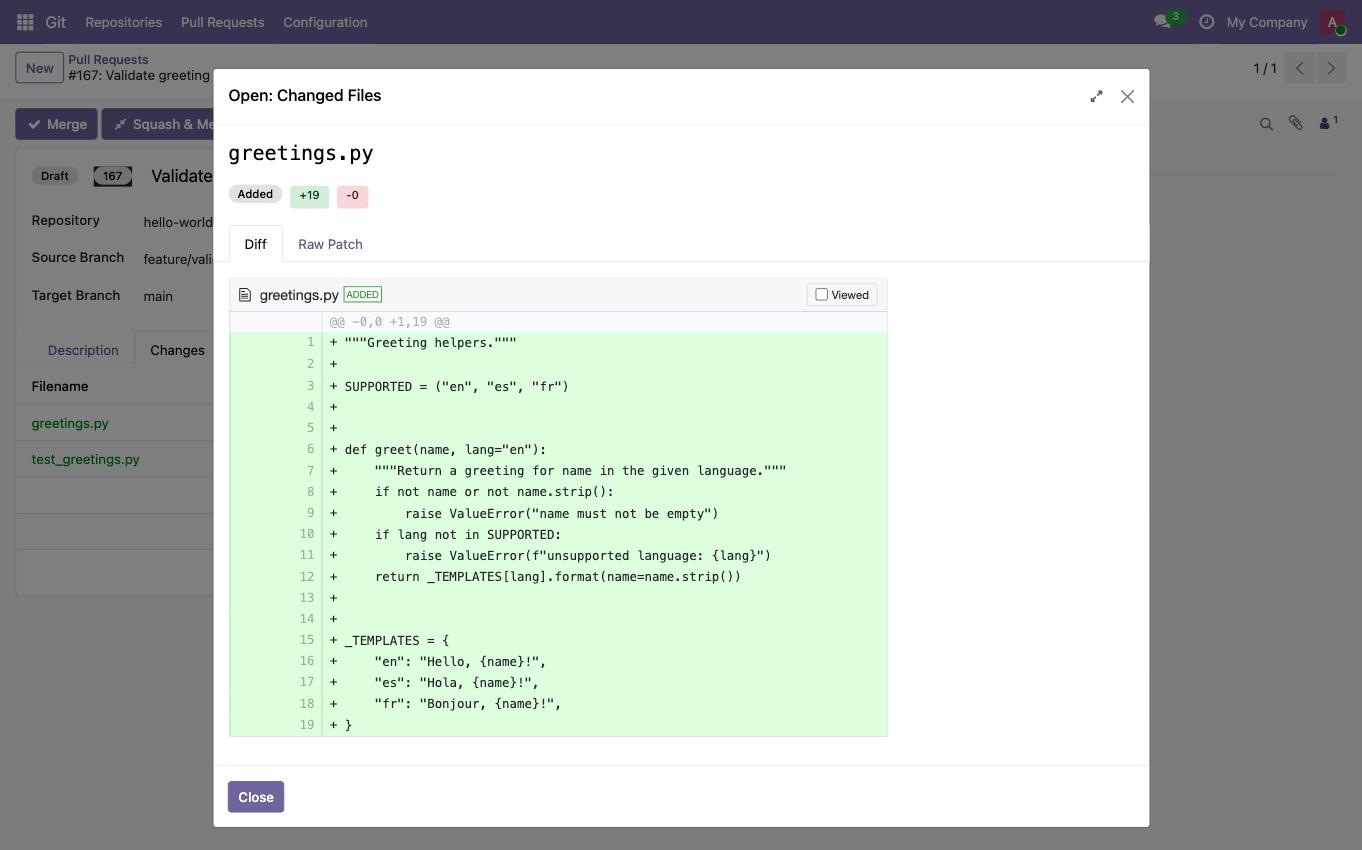
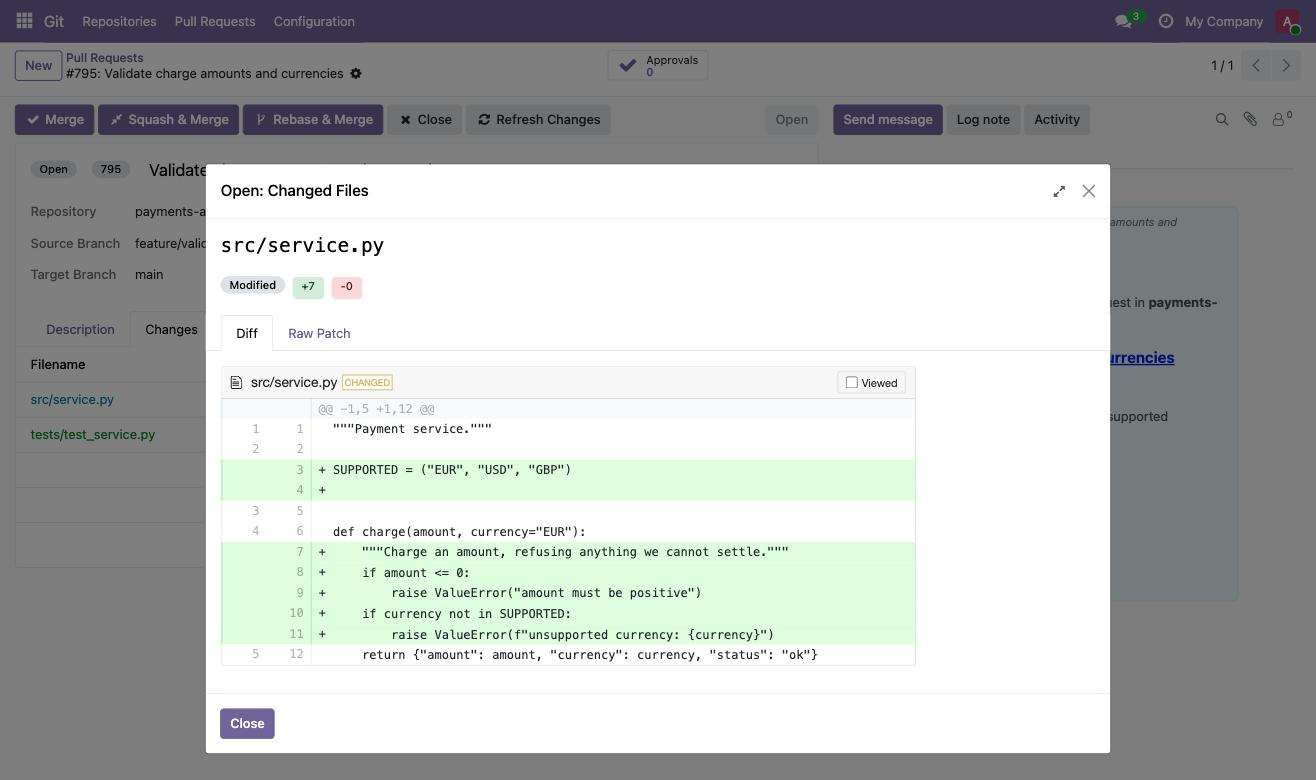
fix(webhook): the test button did nothing and reported success
"Test Delivery" called _process_event('ping', ...). That method drops any
event the webhook is not subscribed to, and 'ping' is in no subscription
list, so it returned at the event filter having done nothing at all — no
request, no delivery record, nothing — and then showed "Test webhook
sent!".

Two separate untruths: this module has no HTTP client anywhere in
webhook.py, so it cannot send; and it was not even recording the payload
it claimed to have sent.

Payload building is now split into _record_delivery(), which the test
button calls directly so it is not filtered by subscriptions, and the
notification says what actually happened: a signed payload stored under
Deliveries for inspection, nothing transmitted. The button is relabelled
"Build Test Payload".

Found by the audit. Caught in the act by the new test, which failed on my
own first fix — I had corrected the "sent" claim while still asserting
the payload was recorded, and it was not.

Also adds ahead/behind tests against a genuinely diverged branch. That
compute swallows every exception and falls back to 0/0, so "up to date"
and "the computation broke" render identically, and nothing asserted a
non-zero count.

Manifest no longer points readers at README.md and docs/, neither of
which ships inside the module — an Apps Store installer got a pointer to
files they do not have.

diff --git a/dw_git/tests/test_integration_git.py b/dw_git/tests/test_integration_git.py
@@ -1,6 +1,7 @@
 """INTEGRATION tests — real git binary + HTTP layer against live Odoo."""
 import os
 import shutil
+import subprocess
 import tempfile
 from unittest.mock import patch
 
@@ -264,3 +265,122 @@ class TestNotificationPipeline(DwGitCommon):
         template = self.env.ref('dw_git.mail_template_git_pr_merged')
         with self.assertRaises(ValidationError):
             template.write({'email_from': '{{ object.no_such_field_xyz }}'})
+
+
+@tagged('post_install', '-at_install')
+class TestAheadBehindAgainstRealHistory(DwGitCommon):
+    """Ahead/behind counters, computed from an actual diverged branch.
+
+    These are rendered as badges in three views, and the compute swallows
+    every exception and falls back to 0/0. That makes "up to date" and
+    "the computation broke" the same answer on screen. No test asserted a
+    non-zero count, so the whole feature could have been dead and nothing
+    would have said so.
+    """
+
+    def setUp(self):
+        super().setUp()
+        self.base = tempfile.mkdtemp(prefix='dw-git-ahead-')
+        self.addCleanup(shutil.rmtree, self.base, True)
+        self.env['ir.config_parameter'].sudo().set_param(
+            'dw_git.repo_base_path', self.base)
+
+        self.repo = self._repo('ahead-behind')
+        self.repo._init_git_repo()
+        self.work = tempfile.mkdtemp(prefix='dw-git-ahead-work-')
+        self.addCleanup(shutil.rmtree, self.work, True)
+        subprocess.run(['git', 'clone', '-q', self.repo._get_repo_path(),
+                        self.work], check=True, capture_output=True)
+        self._git('symbolic-ref', 'HEAD', 'refs/heads/main')
+
+    def _git(self, *args):
+        return subprocess.run(['git', '-C', self.work] + list(args),
+                              check=True, capture_output=True, text=True).stdout
+
+    def _commit(self, message, name, body):
+        with open(os.path.join(self.work, name), 'w') as fh:
+            fh.write(body)
+        self._git('add', '-A')
+        self._git('-c', 'user.email=t@t.com', '-c', 'user.name=T',
+                  'commit', '-qm', message)
+        return self._git('rev-parse', 'HEAD').strip()
+
+    def test_a_diverged_branch_reports_a_non_zero_ahead_count(self):
+        main_sha = self._commit('base', 'a.txt', 'one\n')
+        self._git('push', '-q', 'origin', 'HEAD:refs/heads/main')
+
+        self._git('checkout', '-q', '-b', 'feature/ahead')
+        self._commit('first', 'b.txt', 'two\n')
+        feat_sha = self._commit('second', 'c.txt', 'three\n')
+        self._git('push', '-q', 'origin', 'HEAD:refs/heads/feature/ahead')
+
+        main = self._branch(self.repo, 'main', sha=main_sha)
+        main.write({'is_default': True})
+        feature = self._branch(self.repo, 'feature/ahead', sha=feat_sha)
+
+        feature.invalidate_recordset()
+        self.assertEqual(
+            feature.ahead_commits, 2,
+            'a branch two commits ahead of default reported '
+            f'{feature.ahead_commits} — 0 here would be indistinguishable '
+            'from the compute silently failing')
+        self.assertEqual(feature.behind_commits, 0)
+
+    def test_the_default_branch_is_level_with_itself(self):
+        sha = self._commit('base', 'a.txt', 'one\n')
+        self._git('push', '-q', 'origin', 'HEAD:refs/heads/main')
+        main = self._branch(self.repo, 'main', sha=sha)
+        main.write({'is_default': True})
+        main.invalidate_recordset()
+        self.assertEqual((main.ahead_commits, main.behind_commits), (0, 0))
+
+
+@tagged('post_install', '-at_install')
+class TestWebhookTellsTheTruth(DwGitCommon):
+    """The test-delivery button reported success for work it never did."""
+
+    def test_test_delivery_does_not_claim_to_have_sent_anything(self):
+        """Regression: the button returned "Test webhook sent!". This module
+        builds and signs payloads and stores the delivery record, but has no
+        HTTP client at all — nothing is transmitted. The notification was
+        the one place a user could have learned that, and it said the
+        opposite.
+        """
+        repo = self._repo('hook-honesty')
+        hook = self.env['git.webhook'].create({
+            'name': 'ci', 'url': 'https://example.invalid/hook',
+            'repository_id': repo.id,
+        })
+        before = self.env['git.webhook.delivery'].search_count(
+            [('webhook_id', '=', hook.id)])
+
+        action = hook.action_test_delivery()
+        message = (action['params'].get('message') or '') + \
+                  (action['params'].get('title') or '')
+
+        self.assertNotIn('sent', message.lower(),
+                         'the button still claims the payload was sent')
+        self.assertNotEqual(action['params'].get('type'), 'success',
+                            'reporting success for work never done')
+        self.assertIn('not deliver', message.lower() + ' ' +
+                      str(action['params'].get('message', '')).lower(),
+                      'the user is not told delivery does not happen')
+
+        after = self.env['git.webhook.delivery'].search_count(
+            [('webhook_id', '=', hook.id)])
+        self.assertEqual(after, before + 1,
+                         'the payload should still be recorded for inspection')
+
+    def test_no_http_client_is_imported_anywhere_in_the_webhook_model(self):
+        """Pins the reason the message above must stay honest. If someone
+        implements real delivery, this fails and the copy gets revisited."""
+        import inspect
+
+        from odoo.addons.dw_git.models import webhook as webhook_module
+        source = inspect.getsource(webhook_module)
+        for client in ('import requests', 'urllib.request', 'http.client'):
+            self.assertNotIn(
+                client, source,
+                f'{client} appeared — webhooks may now actually be '
+                'delivered, so action_test_delivery must stop saying they '
+                'are not')

diff --git a/dw_git/models/webhook.py b/dw_git/models/webhook.py
@@ -63,16 +63,25 @@ class GitWebhook(models.Model):
         if not event_map.get(event_type, False):
             return
 
-        # Add signature
+        self._record_delivery(event_type, payload)
+
+    def _record_delivery(self, event_type, payload):
+        """Sign a payload and store it as a delivery record.
+
+        Split out of _process_event because that method drops any event the
+        webhook is not subscribed to, which is right for real events and
+        wrong for a manual test: 'ping' is in no subscription list, so the
+        test button fell straight through the event filter and did nothing
+        whatsoever — while reporting success.
+        """
+        self.ensure_one()
         body = json.dumps(payload).encode()
         signature = hmac.new(
             self.secret_token.encode(),
             body,
             hashlib.sha256
         ).hexdigest()
-
-        # Create delivery record
-        self.env['git.webhook.delivery'].sudo().create({
+        return self.env['git.webhook.delivery'].sudo().create({
             'webhook_id': self.id,
             'event_type': event_type,
             'payload': body,
@@ -80,14 +89,28 @@ class GitWebhook(models.Model):
         })
 
     def action_test_delivery(self):
-        """Send a test payload"""
-        self._process_event('ping', {'zen': 'Test webhook from Odoo Git Hosting'})
+        """Build and record a signed test payload.
+
+        It is not sent. This module builds and signs webhook payloads and
+        stores the delivery record, but ships no HTTP client — there is no
+        `requests` call anywhere in this file. The limitation is documented,
+        but the button used to report "Test webhook sent!", which is the one
+        place a user would ever find out, and it said the opposite of the
+        truth. Say what actually happened instead.
+        """
+        self._record_delivery('ping', {'zen': 'Test webhook from Odoo Git Hosting'})
         return {
             'type': 'ir.actions.client',
             'tag': 'display_notification',
             'params': {
-                'type': 'success',
-                'message': _('Test webhook sent!'),
+                'type': 'warning',
+                'title': _('Payload recorded, not delivered'),
+                'message': _(
+                    'A signed test payload was built and stored under '
+                    'Deliveries, where you can inspect its body and '
+                    'signature. Git Hosting does not send webhooks over the '
+                    'network yet — nothing was transmitted to the endpoint.'),
+                'sticky': True,
             }
         }
 

diff --git a/dw_git/__manifest__.py b/dw_git/__manifest__.py
@@ -22,8 +22,10 @@ Self-hosted Git repository management inside Odoo 19:
 - mail.thread integration on repositories and pull requests
 - Translation template included (i18n/dw_git.pot)
 
-See README.md for the supported feature set and docs/LIMITATIONS.md for
-what is deliberately not implemented yet.
+The Documentation tab covers installation, configuration and the known
+limitations. Neither README.md nor docs/ ships inside the module, so the
+full feature set and the limitations list live at
+https://github.com/DonsWayo/odoo-addons
 """,
     'author': 'Juan Jose Carracedo',
     'website': 'https://github.com/DonsWayo/odoo-addons',
